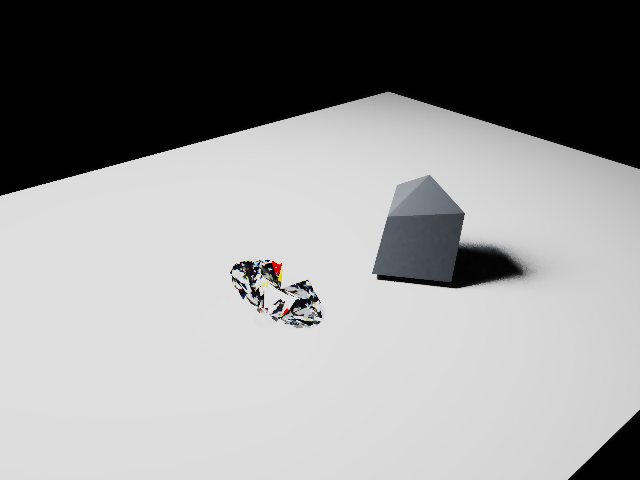
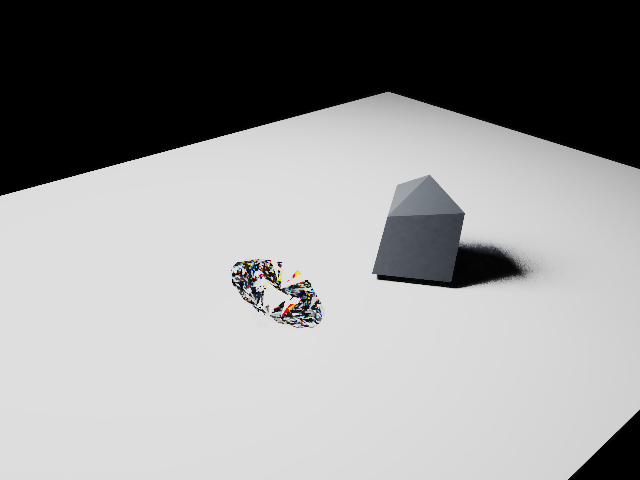
Refactor mesh handling to support flat normals; update black rock material properties and scene loader specifications

Changed region(s): [[0.3438, 0.5312, 0.5, 0.6875], [0.7812, 0.5625, 0.8125, 0.5938]]

diff --git a/Project2/src/geometry/Triangle.hpp b/Project2/src/geometry/Triangle.hpp
@@ -296,9 +296,10 @@ public:
                  Vector3f offset,
                  Vector3f rotation,
                  Vector3f scale,
-                 const std::vector<Material*>& meshMaterials)
+                 const std::vector<Material*>& meshMaterials,
+                 bool flatNormals = false)
     {
-        buildFromLoader(loader, offset, rotation, scale, meshMaterials);
+        buildFromLoader(loader, offset, rotation, scale, meshMaterials, flatNormals);
     }
 
 
@@ -405,7 +406,8 @@ private:
                          Vector3f offset,
                          Vector3f rotation,
                          Vector3f scale,
-                         const std::vector<Material*>& meshMaterials)
+                         const std::vector<Material*>& meshMaterials,
+                         bool flatNormals = false)
     {
         area = 0.0f;
         emissiveArea = 0.0f;
@@ -456,18 +458,23 @@ private:
                                       mesh.Vertices[face_indices[1]].TextureCoordinate.Y);
                 baseTri.t2 = Vector2f(mesh.Vertices[face_indices[2]].TextureCoordinate.X,
                                       mesh.Vertices[face_indices[2]].TextureCoordinate.Y);
-                baseTri.n0 = transformNormal(Vector3f(mesh.Vertices[face_indices[0]].Normal.X,
-                                                      mesh.Vertices[face_indices[0]].Normal.Y,
-                                                      mesh.Vertices[face_indices[0]].Normal.Z),
-                                             scale, rotation);
-                baseTri.n1 = transformNormal(Vector3f(mesh.Vertices[face_indices[1]].Normal.X,
-                                                      mesh.Vertices[face_indices[1]].Normal.Y,
-                                                      mesh.Vertices[face_indices[1]].Normal.Z),
-                                             scale, rotation);
-                baseTri.n2 = transformNormal(Vector3f(mesh.Vertices[face_indices[2]].Normal.X,
-                                                      mesh.Vertices[face_indices[2]].Normal.Y,
-                                                      mesh.Vertices[face_indices[2]].Normal.Z),
-                                             scale, rotation);
+                // flatNormals: leave Triangle's geometric face normal in place
+                // (set by its constructor) so smoothing-group exports don't
+                // round off the facet edges of gems, etc.
+                if (!flatNormals) {
+                    baseTri.n0 = transformNormal(Vector3f(mesh.Vertices[face_indices[0]].Normal.X,
+                                                          mesh.Vertices[face_indices[0]].Normal.Y,
+                                                          mesh.Vertices[face_indices[0]].Normal.Z),
+                                                 scale, rotation);
+                    baseTri.n1 = transformNormal(Vector3f(mesh.Vertices[face_indices[1]].Normal.X,
+                                                          mesh.Vertices[face_indices[1]].Normal.Y,
+                                                          mesh.Vertices[face_indices[1]].Normal.Z),
+                                                 scale, rotation);
+                    baseTri.n2 = transformNormal(Vector3f(mesh.Vertices[face_indices[2]].Normal.X,
+                                                          mesh.Vertices[face_indices[2]].Normal.Y,
+                                                          mesh.Vertices[face_indices[2]].Normal.Z),
+                                                 scale, rotation);
+                }
 
                 bool hasDisp = meshMaterial &&
                     meshMaterial->displacementTexture &&

diff --git a/Project2/src/scene/SceneLoader.cpp b/Project2/src/scene/SceneLoader.cpp
@@ -307,6 +307,7 @@ private:
             else if (f == "roughnessVariation") m.roughnessVariation = parseNum();
             else if (f == "displacementTex")    m.displacementTex = parseStr();
             else if (f == "displacementScale")  m.displacementScale = parseNum();
+            else if (f == "flatNormals")        m.flatNormals = parseBool();
             else errorAt("unknown mesh field: " + f);
         }
         d.meshes.push_back(std::move(m));
@@ -909,7 +910,8 @@ LoadedScene SceneLoader::load(const std::string& sceneDir,
                                                    meshSpec.offset,
                                                    meshSpec.rotation,
                                                    meshSpec.scale,
-                                                   submeshMaterials);
+                                                   submeshMaterials,
+                                                   meshSpec.flatNormals);
         scene->Add(mesh.get());
         if (mesh->hasEmit()) {
             scene->AddLight(std::make_unique<MeshLight>(mesh.get()));

diff --git a/Project2/src/scene/SceneLoader.hpp b/Project2/src/scene/SceneLoader.hpp
@@ -42,6 +42,10 @@ struct MeshSpec {
     std::optional<float>       roughnessVariation;
     std::optional<std::string> displacementTex;
     std::optional<float>       displacementScale;
+    // When true the OBJ's per-vertex normals are ignored and each triangle
+    // uses its geometric face normal. Gives crisp facet edges on gems and
+    // other hard-edge meshes that were exported with smoothing turned on.
+    bool                       flatNormals = false;
 };
 
 struct CameraSpec {